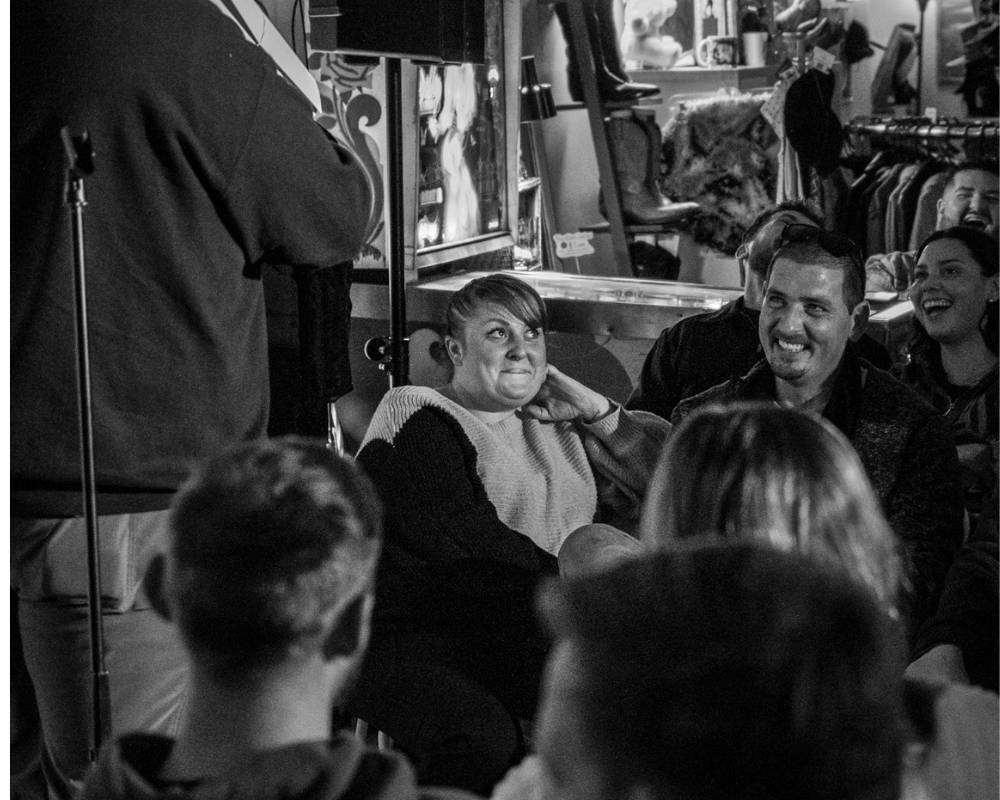
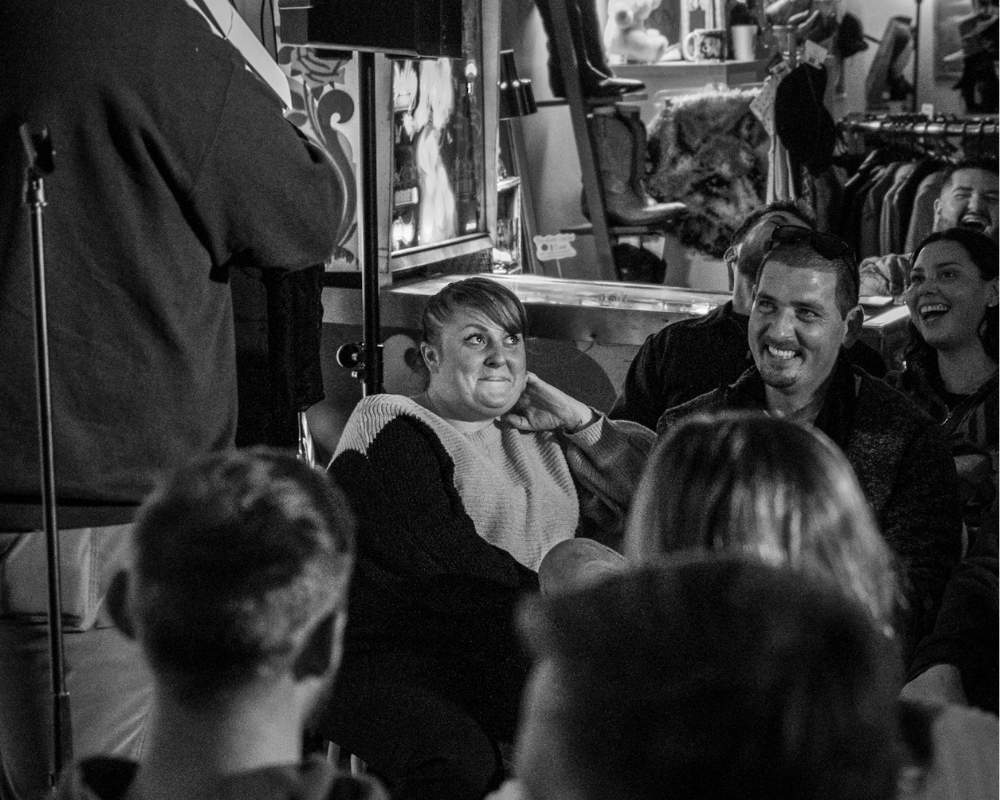
fix: update "Surprise Guests" image with new candid shot
Replace old photo with new rifftomper image for better theme fit

diff --git a/components/lineup.tsx b/components/lineup.tsx
@@ -26,7 +26,7 @@ export function Lineup() {
       icon: Sparkles,
       title: "Surprise Guests",
       description: "You never know who might drop in. Stay tuned for lineup announcements.",
-      image: "/images/audience.jpg",
+      image: "/images/riffstomper.jpg",
       imagePosition: "center",
       alt: "Audience laughing at live comedy event in Knoxville Tennessee"
     }
